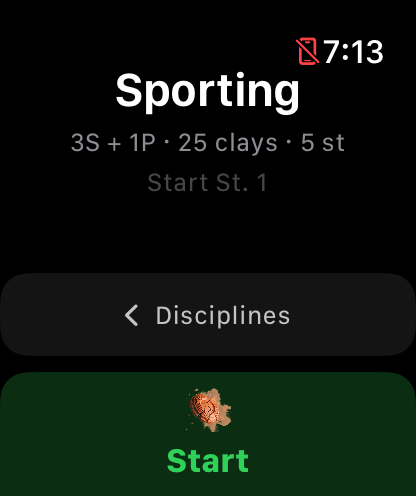
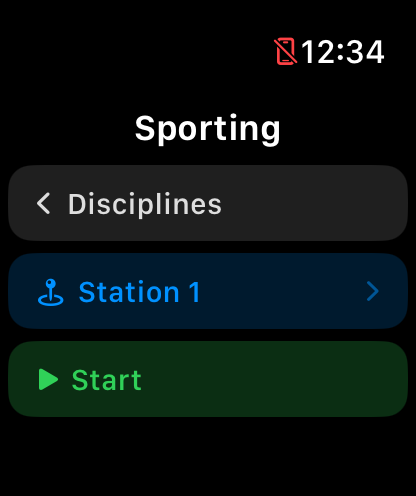
Refresh site for reworked watch app screens
The watch app changed its screen flow: the start screen is now a
simple button list (Disciplines, Station N, Start), the round screen
gained a manual Hit button and Next now records passed clays as
misses, the summary auto-saves and closes with a single Done button,
settings default to 4.0 G and gained a Screen Brightness note, and a
fifth built-in discipline (DTL) plus a stand-rotation setting arrived
in the phone editor. Recaptured the eight affected screenshots from
the simulators and updated the help page copy and alt text to match.

diff --git a/help.html b/help.html
@@ -246,7 +246,7 @@
 
       <div class="doc-row">
         <div class="doc-media">
-          <div class="watchframe"><img src="assets/watch-list.png" alt="Watch screen listing Trap, Trap Single Barrel and Skeet disciplines" loading="lazy"></div>
+          <div class="watchframe"><img src="assets/watch-list.png" alt="Watch screen listing Trap, DTL and Trap Single Barrel disciplines" loading="lazy"></div>
         </div>
         <div class="doc-copy">
           <h3>Discipline list</h3>
@@ -262,18 +262,18 @@
 
       <div class="doc-row flip">
         <div class="doc-media">
-          <div class="watchframe"><img src="assets/watch-landing.png" alt="Watch start screen for Sporting showing the round summary, starting station and a large green Start button" loading="lazy"></div>
+          <div class="watchframe"><img src="assets/watch-landing.png" alt="Watch start screen for Sporting with Disciplines, Station 1 and Start buttons" loading="lazy"></div>
         </div>
         <div class="doc-copy">
           <h3>Start screen</h3>
           <p>One last stop before shooting. Pressing <span class="ui">Start</span> hands scoring over to the watch. After this you only tap to flag misses.</p>
           <dl class="doc-fields">
-            <dt>Top block</dt>
-            <dd>The discipline's name, its round shape (<span class="ui">3S + 1P · 25 clays · 5 st</span>), and <span class="ui">Start St. 1</span>, the station you'll begin on. Tap anywhere in this block to change the starting station.</dd>
             <dt>‹ Disciplines</dt>
             <dd>Back to the discipline list.</dd>
+            <dt>Station 1</dt>
+            <dd>Where you'll start the round. Tap it to pick a different peg, and the watch remembers your choice per discipline.</dd>
             <dt>Start</dt>
-            <dd>Begins the round: shot detection turns on and the scoring screen appears.</dd>
+            <dd>Begins the round. Shot detection turns on and the scoring screen appears.</dd>
           </dl>
         </div>
       </div>
@@ -296,11 +296,11 @@
 
       <div class="doc-row flip">
         <div class="doc-media">
-          <div class="watchframe"><img src="assets/watch-round.png" alt="Watch mid-round scoring screen showing 4 of 5 hits, station and pair progress, Prev and Next buttons and split 1st and 2nd miss buttons" loading="lazy"></div>
+          <div class="watchframe"><img src="assets/watch-round.png" alt="Watch mid-round scoring screen showing 4 of 5 hits, station and pair progress, Prev, Hit and Next buttons and split 1st and 2nd miss buttons" loading="lazy"></div>
         </div>
         <div class="doc-copy">
           <h3>During the round</h3>
-          <p>This screen runs the whole round hands-free. Every detected shot scores the next clay as a hit, and you only touch the screen to flag a miss. When you lower your wrist it dims to just the score, and detection keeps running.</p>
+          <p>This screen runs the whole round hands-free. Every detected shot scores the next clay as a hit, and you only touch the screen to flag a miss. When you lower your wrist the screen switches to a big high-contrast score, and detection keeps running.</p>
           <dl class="doc-fields">
             <dt>Score counter</dt>
             <dd>Hits over shots taken so far. <span class="ui">4/5</span> means you've hit 4 of the 5 clays you've shot at.</dd>
@@ -310,8 +310,10 @@
             <dd>Your last few clays: <i class="cdot inline hit"></i>green = hit, <i class="cdot inline second"></i>yellow = second-barrel hit, <i class="cdot inline miss"></i>red = miss. The gray dot is the clay that's up next.</dd>
             <dt>Miss</dt>
             <dd>Flags your most recent shot as a miss. A pair gets two buttons, <span class="ui">1st</span> and <span class="ui">2nd</span>, one per bird. Tap again to flip a clay back to a hit.</dd>
+            <dt>Hit</dt>
+            <dd>Scores a hit by hand, for the rare shot the sensors don't catch. The round carries on exactly as if the watch had felt it.</dd>
             <dt>Prev / Next</dt>
-            <dd><span class="ui">Prev</span> undoes the last clay and steps back, which is handy when a slammed car door scores a phantom shot. <span class="ui">Next</span> skips ahead, say for a no-bird you never shot at. On the final target it reads <span class="ui">End</span> and finishes the round.</dd>
+            <dd><span class="ui">Prev</span> undoes the last clay and steps back, which is handy when a slammed car door scores a phantom shot. <span class="ui">Next</span> moves on to the next target, and any clay you pass without shooting is recorded as a miss. On the final target it reads <span class="ui">End</span> and finishes the round.</dd>
             <dt>✕ (top left)</dt>
             <dd>Abandons the round after asking you to confirm. The score is discarded and nothing is saved.</dd>
           </dl>
@@ -324,16 +326,16 @@
         </div>
         <div class="doc-copy">
           <h3>Round summary</h3>
-          <p>Shown the moment the last clay is scored.</p>
+          <p>Shown the moment the last clay is scored. By the time you see it, your score is already saved.</p>
           <dl class="doc-fields">
             <dt>Headline score</dt>
             <dd>Hits, total clays, and your percentage. Green means 90% or better, yellow is 70 to 89%, and red is anything below that.</dd>
             <dt>Stations</dt>
             <dd>One row per station with a dot for every clay (same colors as during the round) and that station's <span class="ui">hits/clays</span>.</dd>
-            <dt>Save &amp; Done</dt>
-            <dd>Sends the scorecard to your iPhone and closes the round. If the phone isn't reachable, the watch queues it and delivers it later.</dd>
-            <dt>New Round</dt>
-            <dd>Discards this summary view and returns to the start screen for another round.</dd>
+            <dt>Saving</dt>
+            <dd>Automatic. The scorecard saves itself as soon as this screen appears and syncs to your iPhone. If the phone isn't reachable, the watch queues it and delivers it later.</dd>
+            <dt>Done</dt>
+            <dd>Closes the summary and returns to the discipline list, ready for the next round.</dd>
           </dl>
         </div>
       </div>
@@ -347,11 +349,13 @@
           <p>Shot detection is tuned here on the watch, since the wrist wearing the sensor is the best judge. Open it from the bottom of the discipline list.</p>
           <dl class="doc-fields">
             <dt>G-Force</dt>
-            <dd>The recoil threshold: how hard a jolt must be to count as a shot, from 1.0 to 8.0 G. The default of <span class="ui">2.5 G</span> suits most guns, and typical shotgun recoil lands between 2 and 4 G. Raise it if knocks are scoring phantom shots. Lower it if real shots go undetected.</dd>
+            <dd>The recoil threshold: how hard a jolt must be to count as a shot, from 1.0 to 8.0 G. The default is <span class="ui">4.0 G</span>, and typical shotgun recoil lands between 2 and 4 G. Raise it if knocks are scoring phantom shots. Lower it if real shots go undetected.</dd>
             <dt>Calibration</dt>
             <dd>Opens the live calibration screen below, which is the easy way to set the threshold for your gun and load.</dd>
             <dt>Window</dt>
             <dd>The double-barrel window, from 0.2 to 2.0 seconds (default <span class="ui">1.5 s</span>). Two shots closer together than this count as one clay: first and second barrel. It only matters where the discipline allows 2 shots per single.</dd>
+            <dt>Screen Brightness</dt>
+            <dd>Advice rather than a control. watchOS dims the screen on its own once you mount the gun and apps can't override that, so for a bright screen between shots set Wake Duration to 70 seconds in the watch's own Settings, under Display &amp; Brightness.</dd>
           </dl>
         </div>
       </div>
@@ -465,7 +469,7 @@
         </div>
         <div class="doc-copy">
           <h3>Disciplines</h3>
-          <p>The disciplines available on the watch. Four come built in: Trap (2 shots per single), Trap Single Barrel (1 shot), Skeet (three pairs per station), and Sporting (three singles and a pair per station). You can reshape or replace all of them.</p>
+          <p>The disciplines available on the watch. Five come built in: Trap and DTL (both 2 shots per single), Trap Single Barrel (1 shot), Skeet (three pairs per station), and Sporting (three singles and a pair per station). You can reshape or replace all of them.</p>
           <dl class="doc-fields">
             <dt>Discipline rows</dt>
             <dd>Icon, name, and the same shorthand the watch shows: <span class="ui">25 clays · 5 st · 2 shots</span>, or <span class="ui">3S + 1P · 25 clays · 5 st</span> when the program includes pairs. The row order here is the order on the watch.</dd>
@@ -477,7 +481,7 @@
 
       <div class="doc-row flip">
         <div class="doc-media">
-          <div class="phoneframe"><img src="assets/phone-editor.png" alt="iPhone discipline editor for Sporting showing shots per single, station count and a station program of three singles and a pair" loading="lazy"></div>
+          <div class="phoneframe"><img src="assets/phone-editor.png" alt="iPhone discipline editor for Sporting showing shots per single, station count, stand rotation and a station program of three singles and a pair" loading="lazy"></div>
         </div>
         <div class="doc-copy">
           <h3>Discipline editor</h3>
@@ -489,6 +493,8 @@
             <dd>With <span class="ui">1 shot</span>, every detected shot scores the next clay and there are no second barrels, ever. With <span class="ui">2 shots</span>, a quick follow-up counts as the second barrel on the same clay. Pairs always take one shot per bird either way.</dd>
             <dt>Stations</dt>
             <dd>How many stands you shoot in a round, from 1 to 15.</dd>
+            <dt>Move to the next stand</dt>
+            <dd>How the squad rotates. <span class="ui">Every target</span> moves you to the next stand after each clay, the way club Trap squads walk. <span class="ui">After full program</span> shoots the station's whole sequence before moving, as in DTL, Skeet and Sporting.</dd>
             <dt>Station Program</dt>
             <dd>The target sequence every station repeats, built from <span class="ui">＋ Single</span> and <span class="ui">＋ Pair</span>. Drag to reorder, swipe to remove. The footer does the math for you: 3 singles and 1 pair make 5 clays per station, which over 5 stations is 25 targets.</dd>
             <dt>Icon</dt>

diff --git a/index.html b/index.html
@@ -255,12 +255,12 @@
     <p class="lead">Start the round, shoot, and tap only when you miss.</p>
     <div class="steps">
       <div class="step">
-        <div class="shot watchframe"><img src="assets/watch-list.png" alt="Watch screen listing Trap, Trap Single Barrel and Skeet disciplines" loading="lazy"></div>
+        <div class="shot watchframe"><img src="assets/watch-list.png" alt="Watch screen listing Trap, DTL and Trap Single Barrel disciplines" loading="lazy"></div>
         <h3>1 · Pick your discipline</h3>
         <p>Open the watch app and choose Trap, Skeet, Sporting, or any discipline you've built yourself. Tap Start and the watch takes it from there.</p>
       </div>
       <div class="step">
-        <div class="shot watchframe"><img src="assets/watch-round.png" alt="Watch screen mid-round showing 4 of 5 hits and first/second miss buttons for a pair" loading="lazy"></div>
+        <div class="shot watchframe"><img src="assets/watch-round.png" alt="Watch screen mid-round showing 4 of 5 hits, Prev, Hit and Next buttons and first/second miss buttons for a pair" loading="lazy"></div>
         <h3>2 · Just shoot</h3>
         <p>The motion sensors pick up each shot from the recoil and score it as a hit. Missed one? A quick tap fixes it without looking down, and pairs get a separate button for each bird.</p>
       </div>
